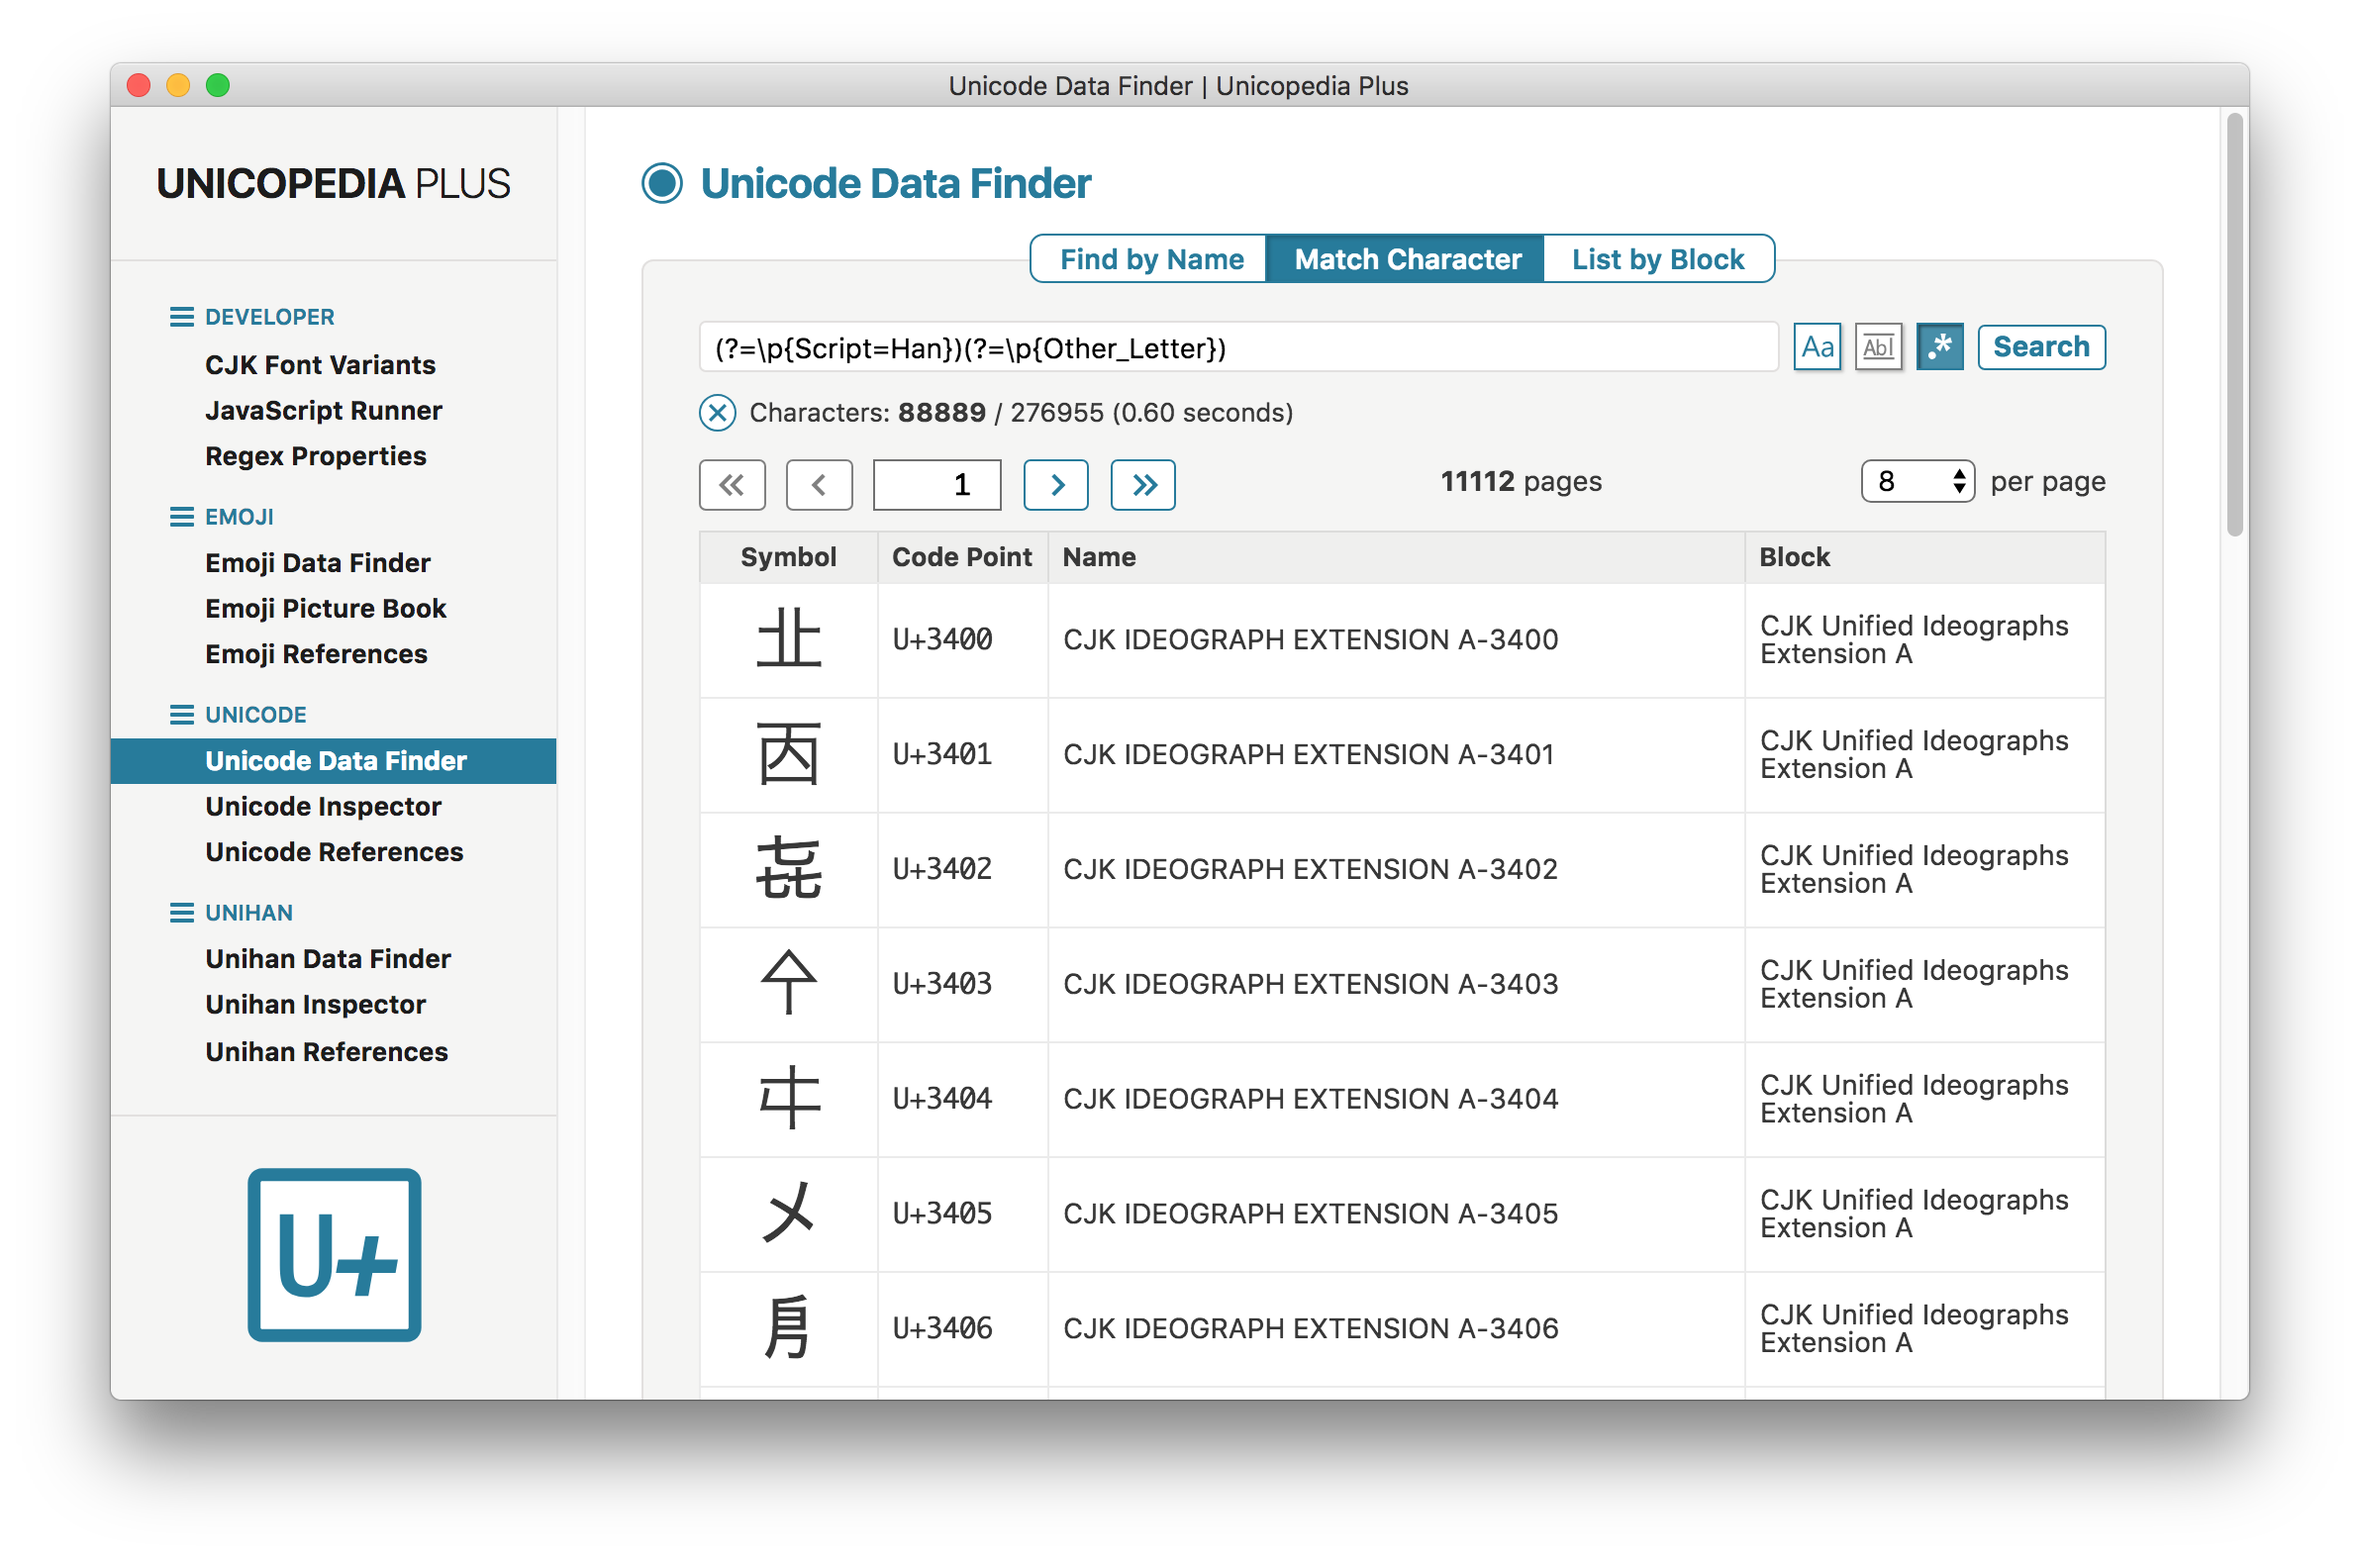
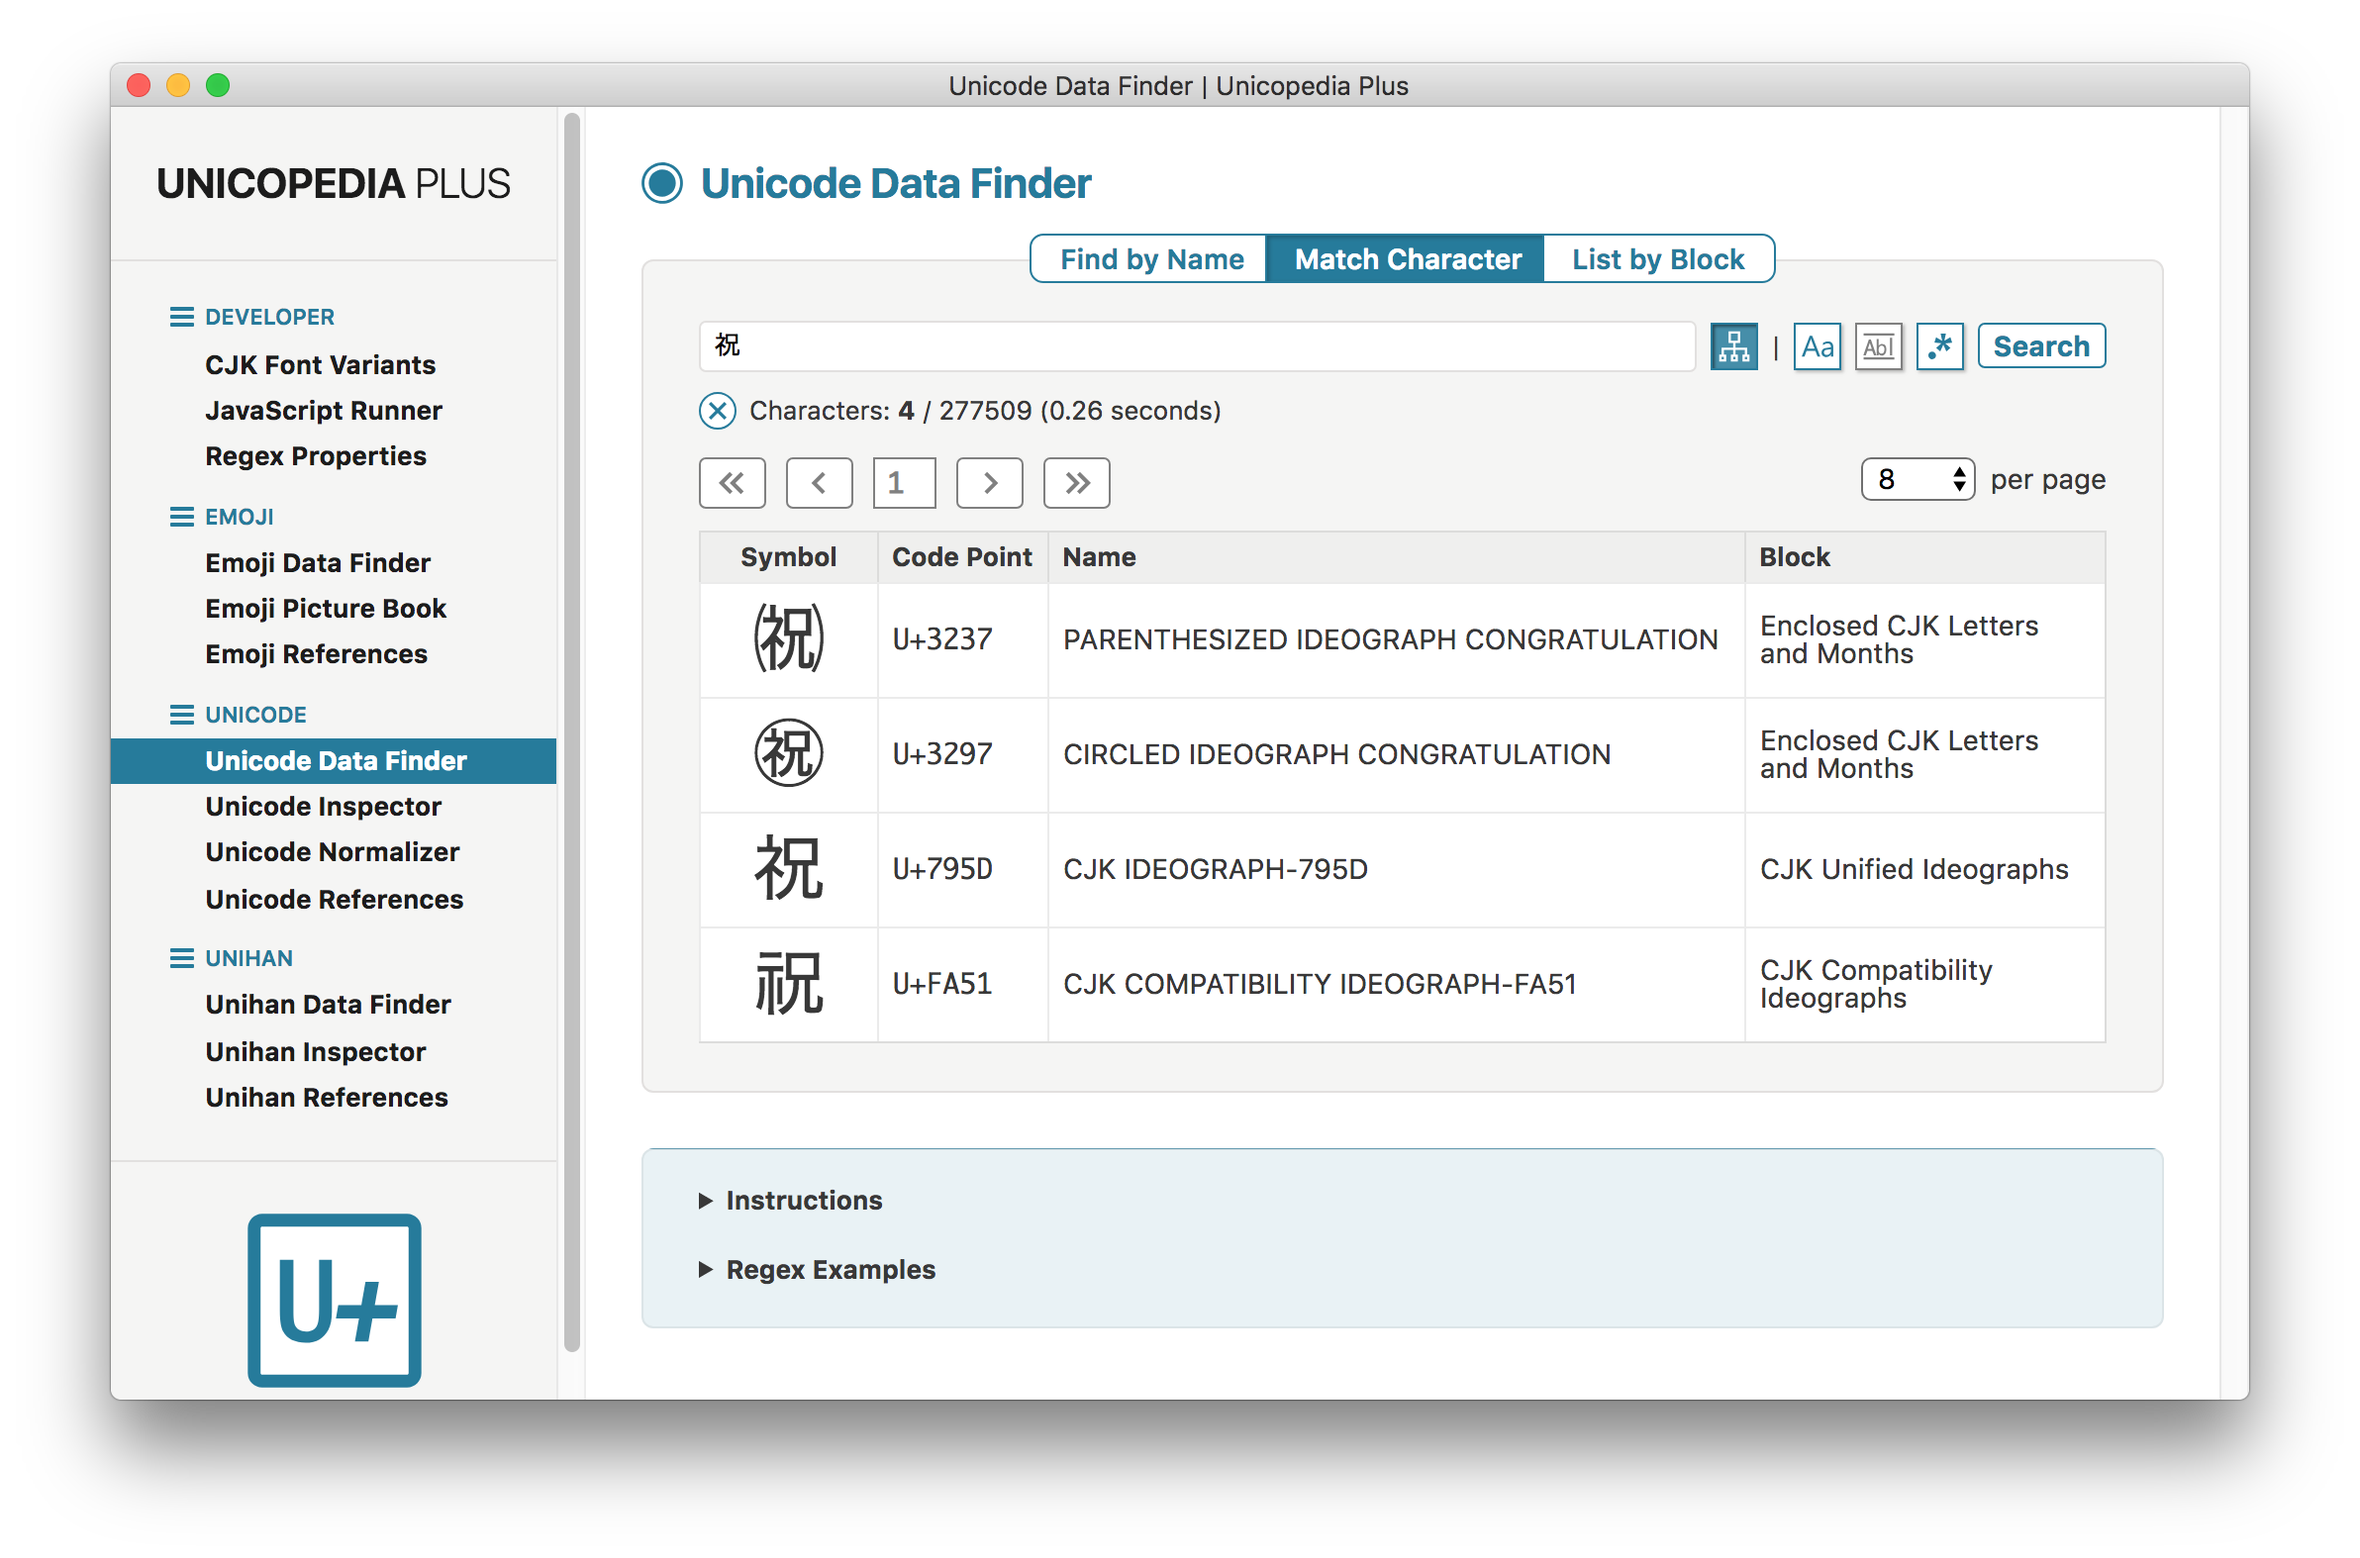
Updated app to 4.1.0

diff --git a/renderer/units/Unicode Data Finder/import.js b/renderer/units/Unicode Data Finder/import.js
@@ -19,6 +19,7 @@ const nameParams = { };
 //
 const characterSearchString = unit.querySelector ('.match-character .search-string');
 const characterSearchMessage = unit.querySelector ('.match-character .search-message');
+const characterUseDecomposition = unit.querySelector ('.match-character .use-decomposition');
 const characterCaseSensitive = unit.querySelector ('.match-character .case-sensitive');
 const characterUseRegex = unit.querySelector ('.match-character .use-regex');
 const characterSearchButton = unit.querySelector ('.match-character .search-button');
@@ -67,6 +68,7 @@ module.exports.start = function (context)
         nameRegexExamples: false,
         //
         characterSearchString: "",
+        characterUseDecomposition: false,
         characterCaseSensitive: false,
         characterUseRegex: false,
         characterPageSize: 8,
@@ -277,6 +279,8 @@ module.exports.start = function (context)
     characterParams.observer = null;
     characterParams.root = unit;
     //
+    characterUseDecomposition.checked = prefs.characterUseDecomposition;
+    //
     characterCaseSensitive.checked = prefs.characterCaseSensitive;
     characterUseRegex.checked = prefs.characterUseRegex;
     //
@@ -386,7 +390,7 @@ module.exports.start = function (context)
                     {
                         clearSearch (characterSearchInfo, characterSearchData);
                         let start = window.performance.now ();
-                        let characters = unicode.findCharactersByData (regex, true);
+                        let characters = unicode.findCharactersByData (regex, true, characterUseDecomposition.checked);
                         let stop = window.performance.now ();
                         let seconds = ((stop - start) / 1000).toFixed (2);
                         let closeButton = document.createElement ('button');
@@ -724,6 +728,7 @@ module.exports.stop = function (context)
         nameRegexExamples: nameRegexExamples.open,
         //
         characterSearchString: characterSearchString.value,
+        characterUseDecomposition: characterUseDecomposition.checked,
         characterCaseSensitive: characterCaseSensitive.checked,
         characterUseRegex: characterUseRegex.checked,
         characterPageSize: characterParams.pageSize,

diff --git a/renderer/lib/unicode/unicode.js b/renderer/lib/unicode/unicode.js
@@ -606,7 +606,7 @@ function codePointsToCharacters (codePoints)
     return characters;
 }
 //
-function findCharactersByData (regex, bySymbol)
+function findCharactersByData (regex, bySymbol, useDecomposition)
 {
     let characterList = [ ];
     let codePoints = unicodeData;
@@ -614,10 +614,31 @@ function findCharactersByData (regex, bySymbol)
     {
         if (bySymbol)
         {
-            let character = String.fromCodePoint (parseInt (codePoints[codePoint].code, 16));
-            if (regex.test (character))
+            let found = false;
+            let codePointData = codePoints[codePoint];
+            let character = String.fromCodePoint (parseInt (codePointData.code, 16));
+            if (useDecomposition && codePointData.decomposition)
             {
-                characterList.push (character);
+                let codes = codePointData.decomposition.trim ().split (' ');
+                for (let code of codes)
+                {
+                    if (code[0] !== '<')
+                    {
+                        if (regex.test (String.fromCodePoint (parseInt (code, 16))))
+                        {
+                            characterList.push (character);
+                            found = true;
+                            break;
+                        }
+                    }
+                }
+            }
+            if (!found)
+            {
+                if (regex.test (character))
+                {
+                    characterList.push (character);
+                }
             }
         }
         else

diff --git a/renderer/units/Unicode Data Finder/import.html b/renderer/units/Unicode Data Finder/import.html
@@ -39,6 +39,10 @@
                                 <span class="search-message"></span>
                             </span>
                             <span class="action">
+                                <label title="Use Decomposition"><input class="use-decomposition icon-checkbox" type="checkbox"><svg><use href="/images/search.svg#use-decomposition-icon"></use></svg></label>
+                            </span>
+                            <span class="action">|</span>
+                            <span class="action">
                                 <label title="Case Sensitive"><input class="case-sensitive icon-checkbox" type="checkbox"><svg><use href="/images/search.svg#case-sensitive-icon"></use></svg></label>
                             </span>
                             <span class="action">

diff --git a/renderer/units/Unicode Normalizer/import.css b/renderer/units/Unicode Normalizer/import.css
@@ -93,6 +93,7 @@
     tab-size: 4;
     padding: 2px 6px;
     height: 37px;
+    overflow: auto;
 }
 
 #unicode-normalizer-unit table.form-data td.code-points-string
